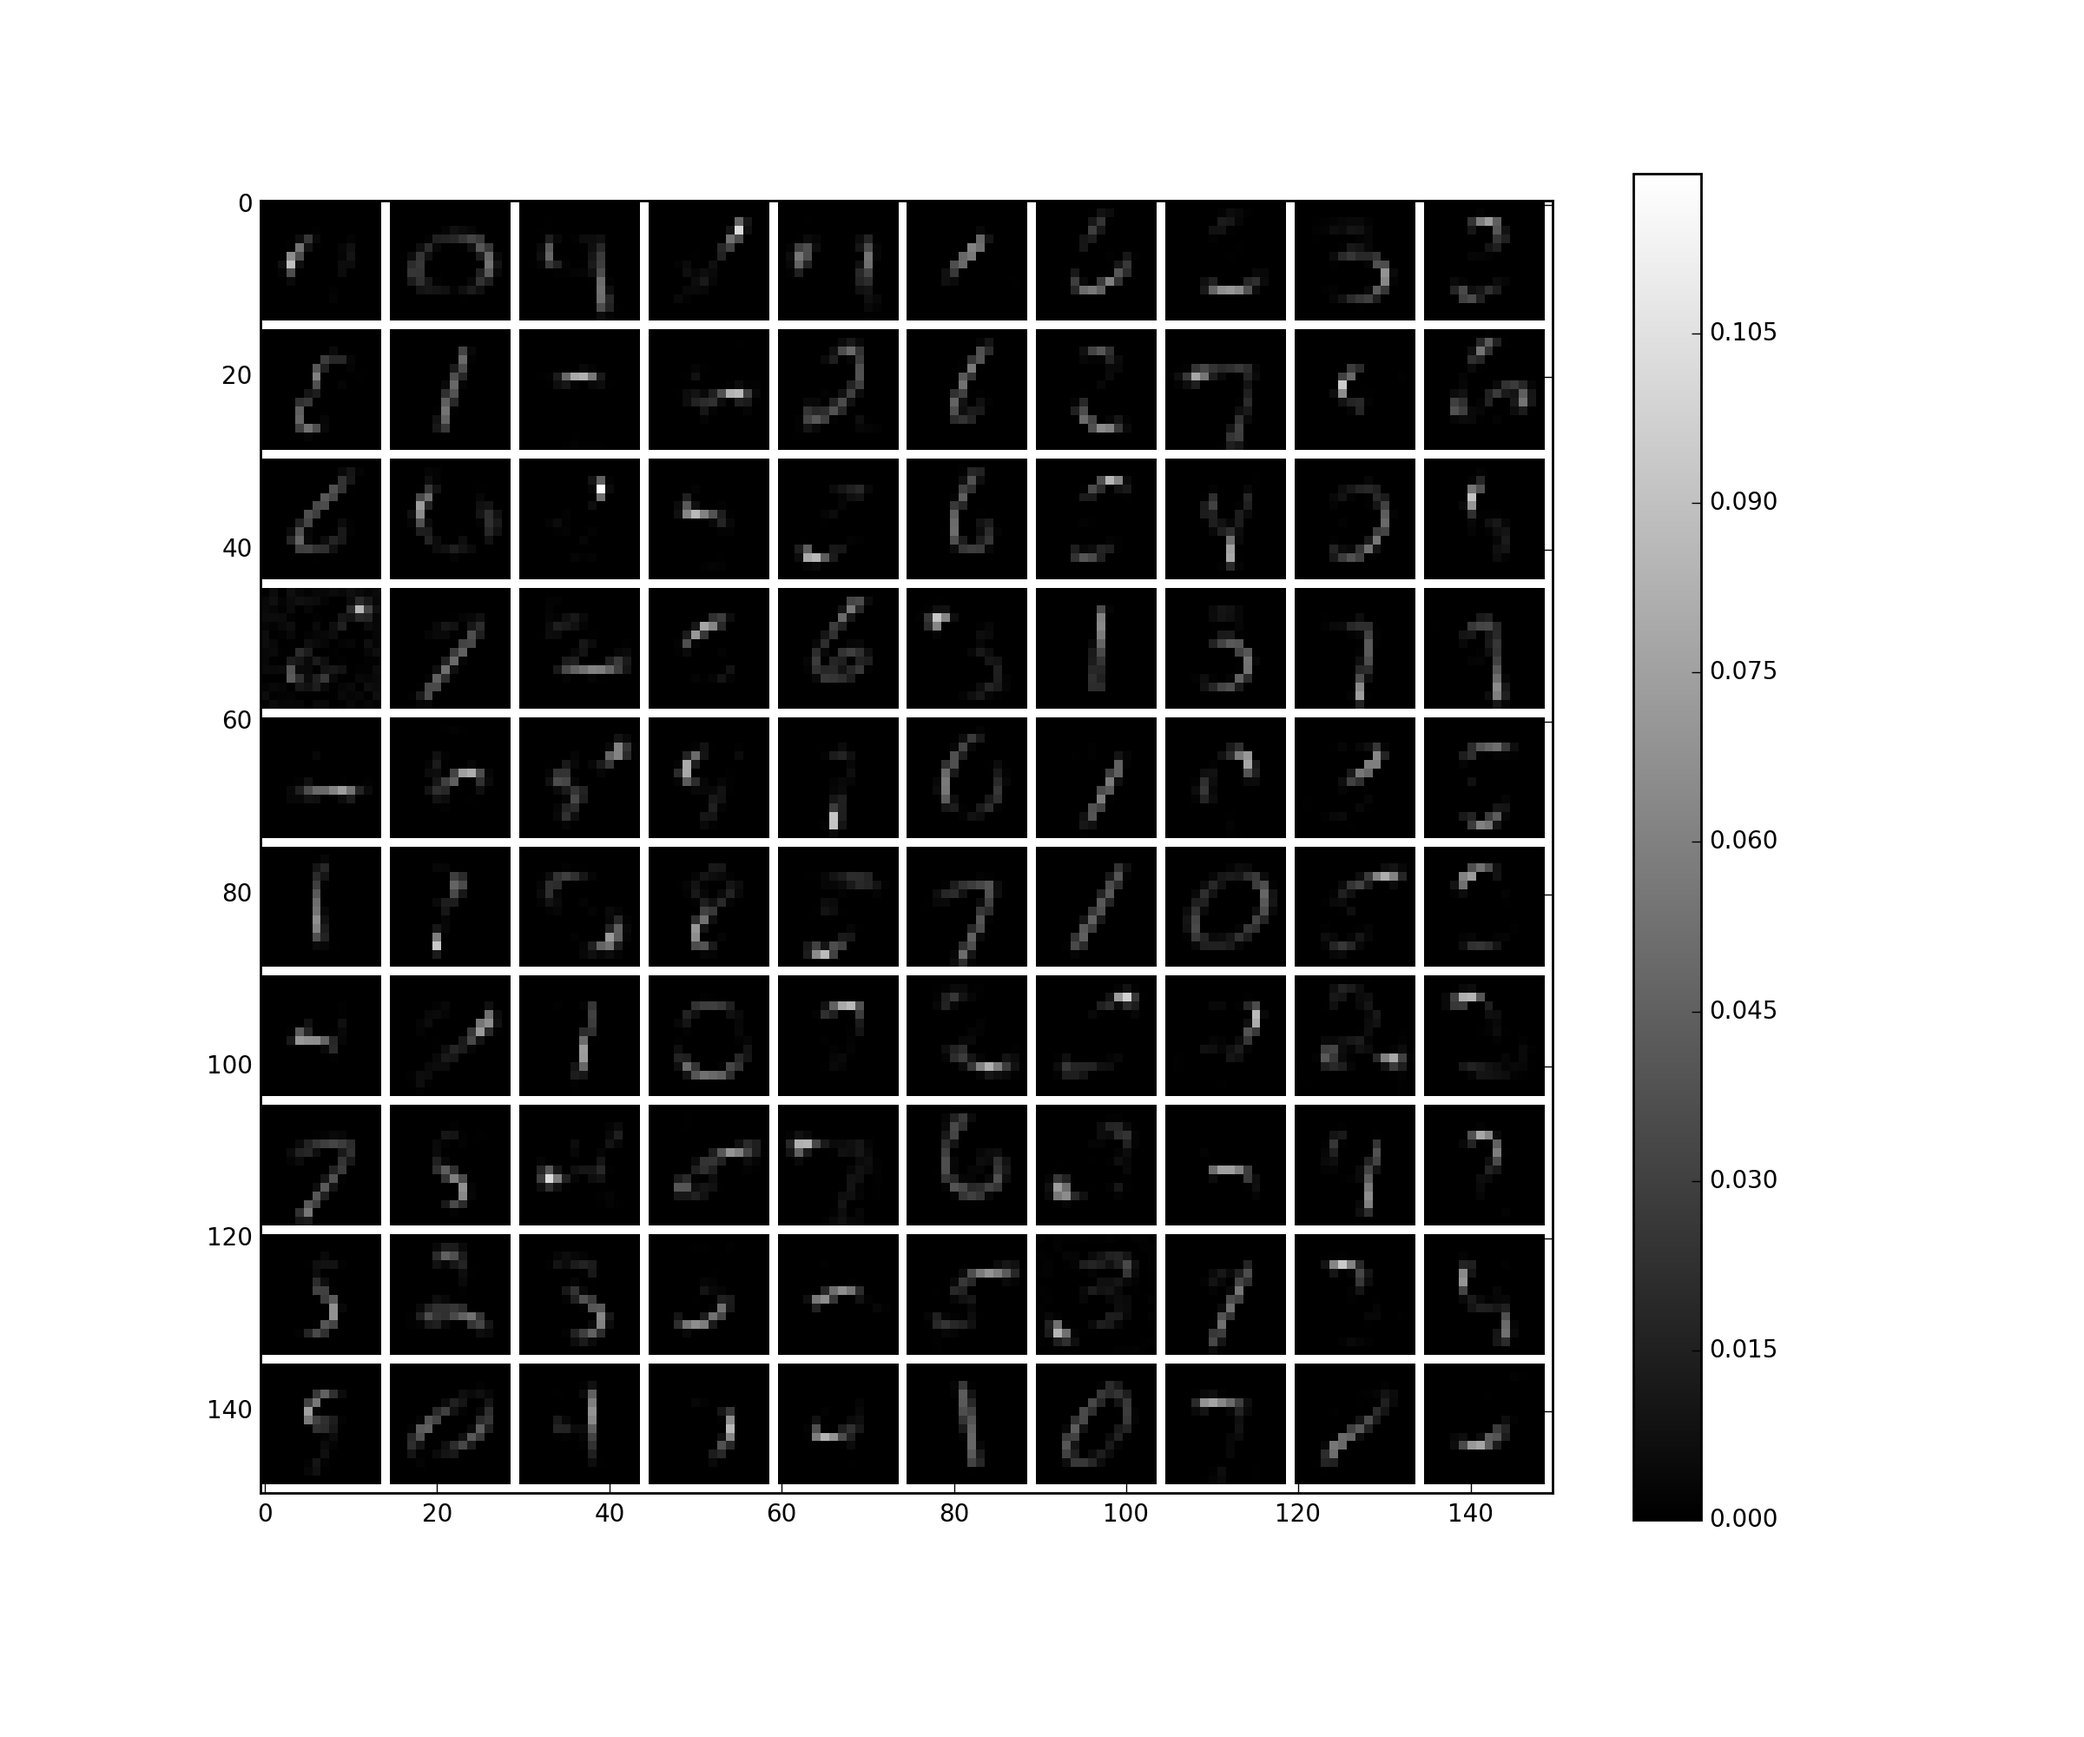
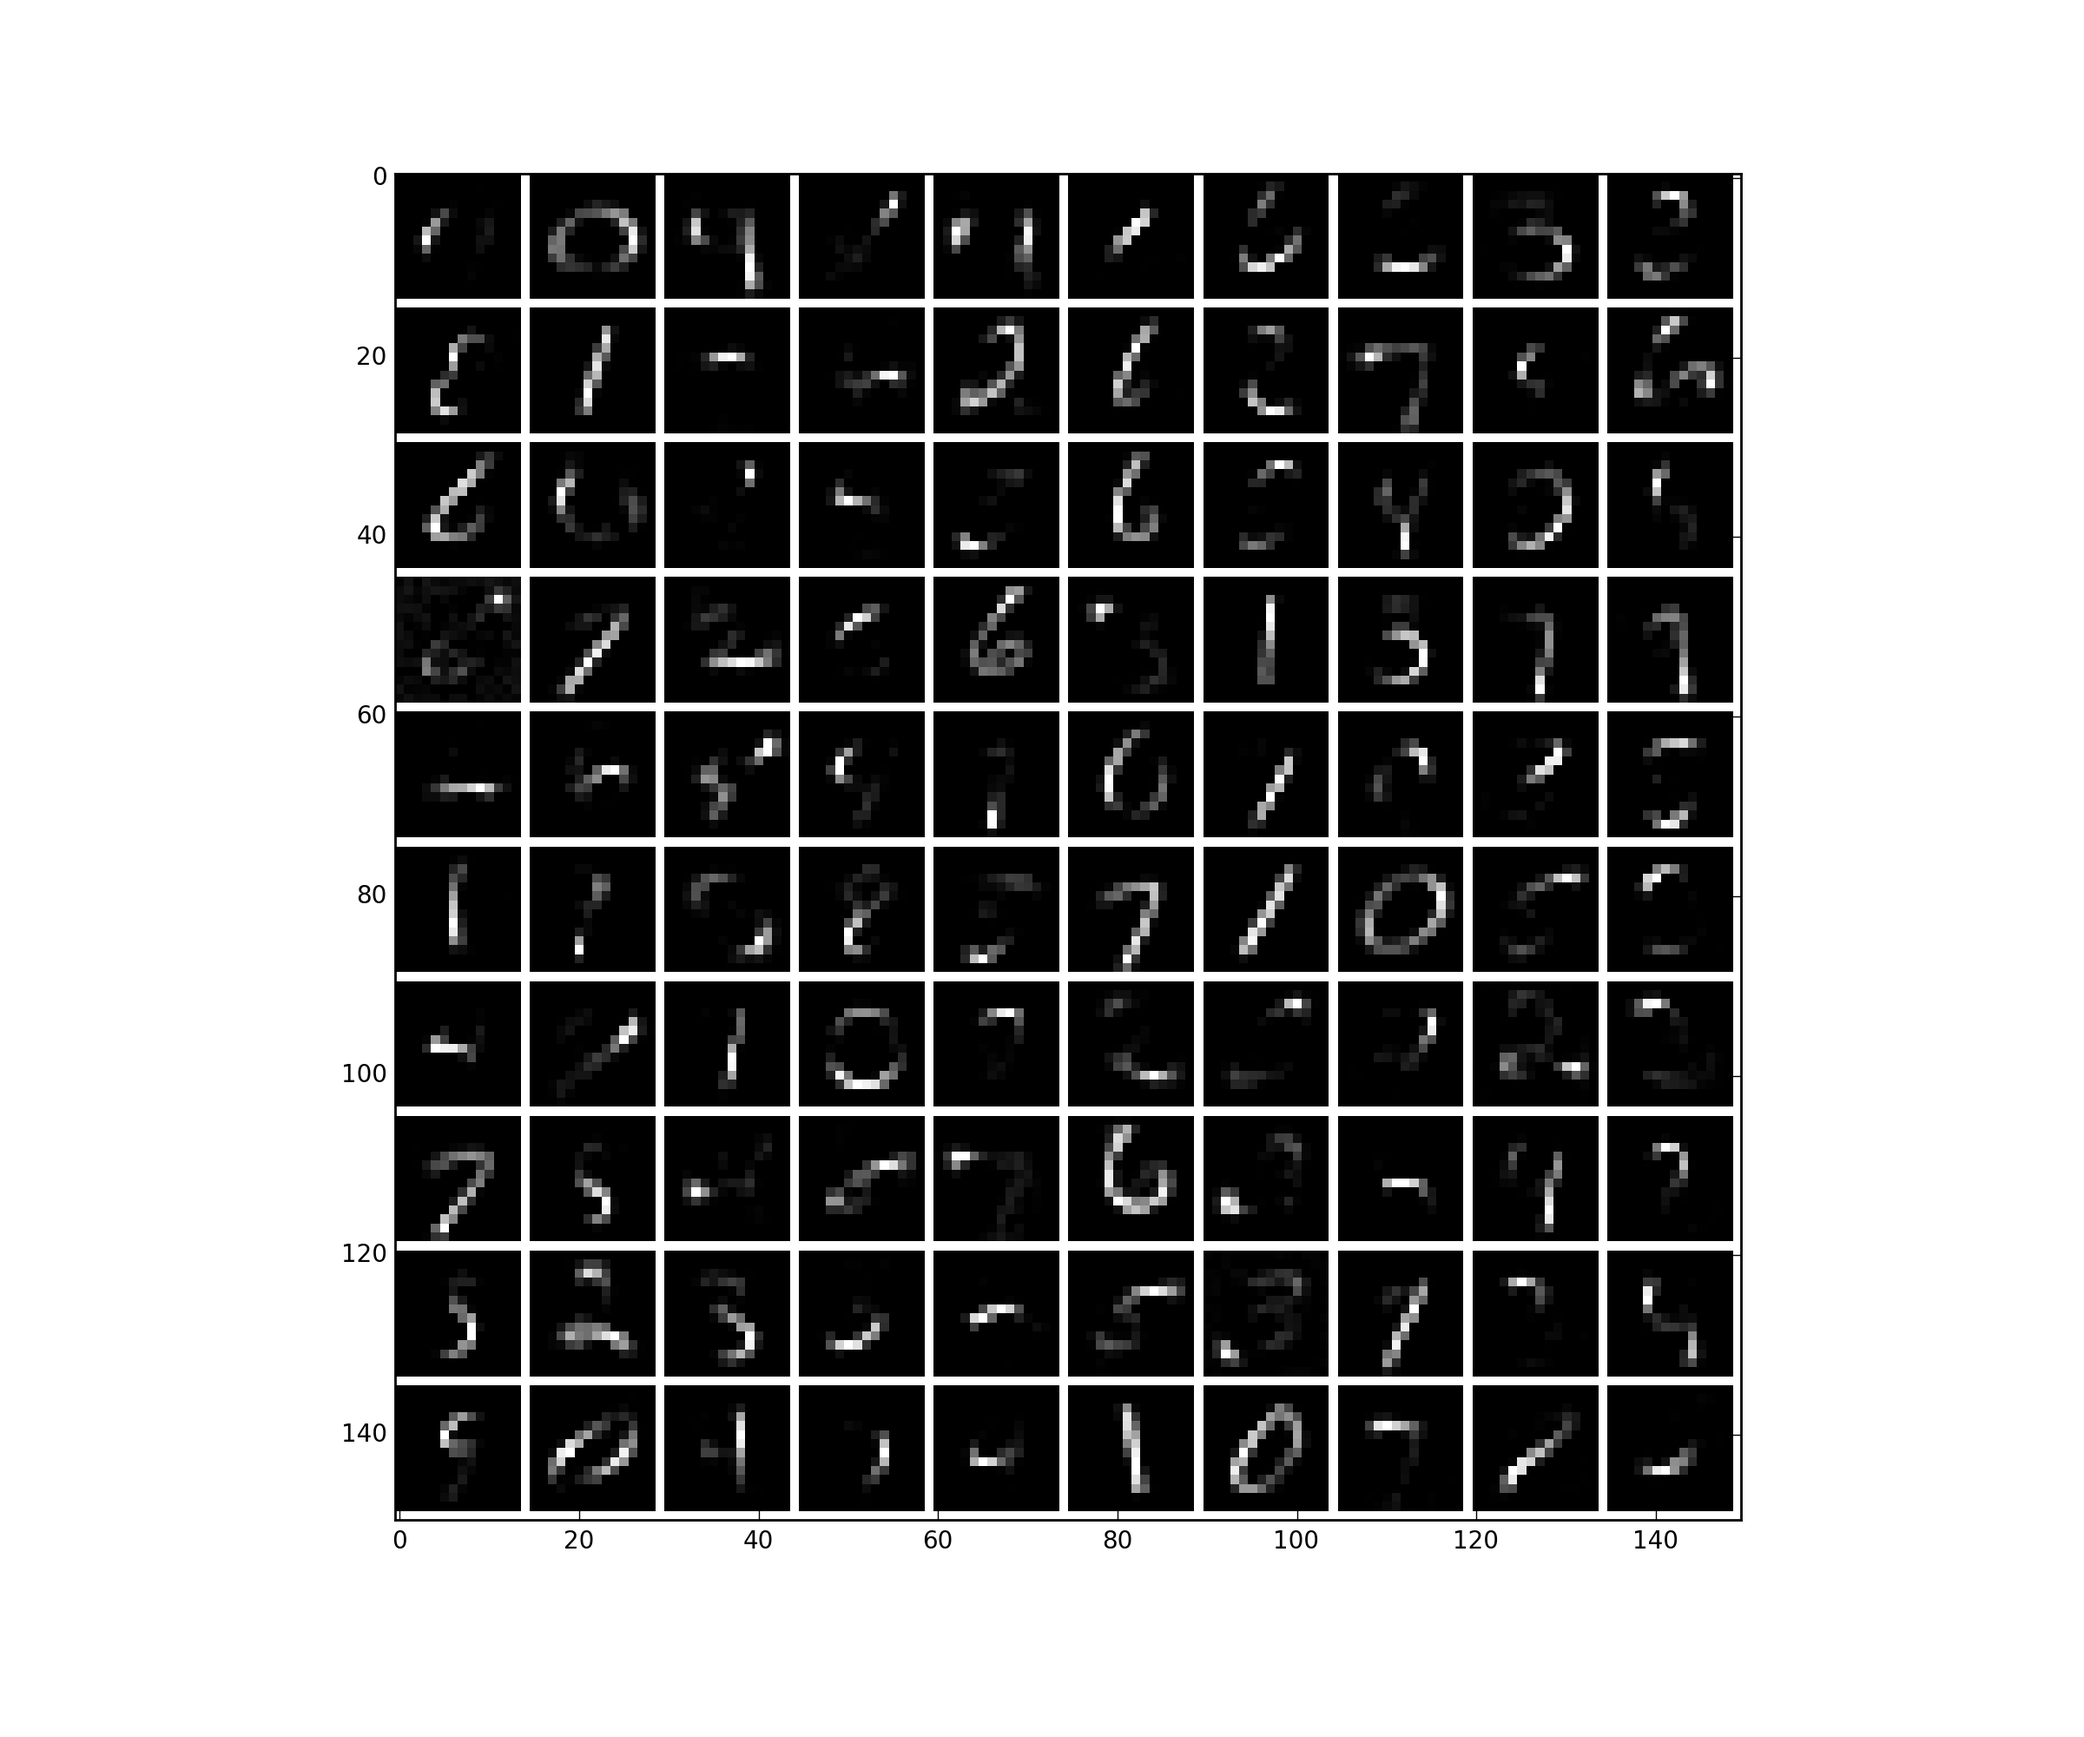
some small fixes

Changed region(s): [[0.0938, 0.093, 0.8438, 0.899]]

diff --git a/utils/rf_plot.py b/utils/rf_plot.py
@@ -1,7 +1,9 @@
 import numpy as np
 import matplotlib.pyplot as plt
 
-def show_fields(M, cmap = plt.cm.bwr, m = None, pos_only = False):
+
+def show_fields(M, cmap=plt.cm.bwr, m=None, pos_only=False,
+                colorbar=True):
     """
     M - dictionary with dict elements as rows (each row is an unraveled image)
     cmap - color map for plot
@@ -9,27 +11,27 @@ def show_fields(M, cmap = plt.cm.bwr, m = None, pos_only = False):
     Plots receptive fields
     """
     N, N_pix = M.shape
-    if (m == None):
+    if m is None:
         m = int(np.sqrt(N - 0.01)) + 1
-    
-    l = int(np.sqrt(N_pix)) # Linear dimension of the image
-    
+
+    l = int(np.sqrt(N_pix))  # Linear dimension of the image
+
     mm = np.max(np.abs(M))
-    
+
     out = np.zeros(((l + 1) * m, (l + 1) * m)) + np.max(M)
 
     for u in range(N):
         i = u / m
         j = u % m
-        out[(i * (l + 1)):(i * (l + 1) + l), (j * (l + 1)):(j * (l + 1) + l)] = np.reshape(M[u], (l, l))
-        
-        
+        out[(i * (l + 1)):(i * (l + 1) + l), (j * (l + 1))
+            :(j * (l + 1) + l)] = np.reshape(M[u], (l, l))
+
     if pos_only:
         m0 = 0
     else:
         m0 = -mm
     m1 = mm
-    #plt.imshow(out, cmap = plt.cm.gray_r, interpolation = 'nearest')
-    plt.imshow(out, cmap = cmap, interpolation = 'nearest',
-               vmin = m0, vmax = m1)
-    plt.colorbar()
+    plt.imshow(out, cmap=cmap, interpolation='nearest',
+               vmin=m0, vmax=m1)
+    if colorbar:
+        plt.colorbar()

diff --git a/tests/3_sparse_prior.py b/tests/3_sparse_prior.py
@@ -9,12 +9,12 @@ from src.model import EMBurak
 from utils.image_gen import ImageGenerator
 
 output_dir = 'sparsity'
-DC = 100.
+DC = 50.
 n_t = 100
-n_repeats = 10
+n_repeats = 5
 
 # Sparse coding dictionary prior
-data = loadmat('sparse_coder/output/mnist_dictionary_pos.mat')
+data = loadmat('sparse_coder/output/mnist_dictionary.mat')
 D = data['D']
 
 _, N_pix = D.shape
